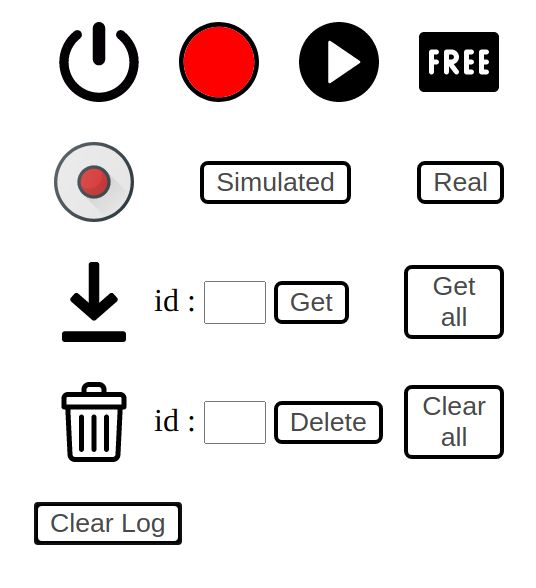
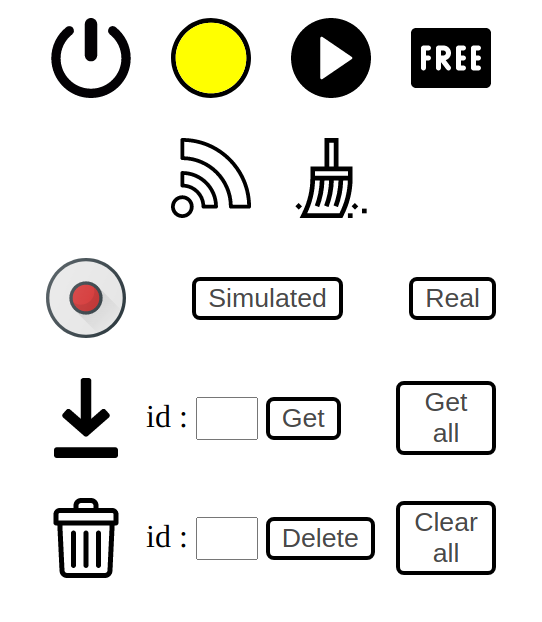
📝 documentation(ronoco-documentation): update documentation according to connect button

diff --git a/ronoco-documentation/src/user-guides/how-to-use-it.md b/ronoco-documentation/src/user-guides/how-to-use-it.md
@@ -15,7 +15,10 @@ Control Interface
 
 <img src="../static/circle.svg" width="5%"></img> Represents the status of the server, when it is empty it means that the client has not yet received any information from the server. It is probably still loading.
 
-<img src="../static/circle_red.svg" width="5%"></img> When it is red it means that at least one request to the server has not been answered and therefore the server is not running or is in error
+<img src="../static/circle_black.svg" width="5%"></img> When it is black (here white) it means that at least one request to the server has not been answered and therefore the server is not running or is in error
+
+
+<img src="../static/circle_red.svg" width="5%"></img> When it is red, it means that it is not possible to reach the commander. Check that MoveIt is running and that the order passed as a parameter is the right one, then click on the connect button
 
 <img src="../static/circle_orange.svg" width="5%"></img> When it is orange it means that ROS is not working as expected. The source of the problem is either the absence of roscore (the rosout/get_loggers service is not available) or the absence of moveit (the move_group/get_loggers service is not available). In this state ronoco is not usable
 
@@ -25,7 +28,11 @@ Control Interface
 
 <img src="../static/play.svg" width="5%"></img> This button asks the server to execute the last behaviour tree deployed from Node-RED
 
-<img src="../static/free.svg" width="5%"></img> Enables the robot to be set to compliant mode. This button can only be used for a robot that has a service to set it to compliant mode (see [add your own robot](../user-guides/own.md) for more details).
+<img src="../static/free.svg" width="5%"></img> Enables the robot to be set to compliant mode. This button can only be used for a robot that has a service to set it to compliant mode
+
+<img src="../static/connect.svg" width="5%"></img> Allows to connect to the commander passed in parameter when the status of ronoco is red
+
+<img src="../static/clear.svg" width="5%"></img> Clear logs in ronoco-ui
 
 <img src="../static/record.svg" width="5%"></img> This group of buttons allows you to record points in the environment. There are two recording modes either via the *simulated* button which records the position of the interactive marker. Or via the *real* button which records the actual position of the robot.
 

diff --git a/ronoco-documentation/src/user-guides/quick-start.md b/ronoco-documentation/src/user-guides/quick-start.md
@@ -5,18 +5,26 @@
 To launch the project, simply run the following command:
 
 ```bash
-roslaunch ronoco ronoco.launch commander:=string compliant_mode:=string
+roslaunch ronoco ronoco.launch commander:=string compliant_mode:=string end_effector:=string
 ```
 
 With as argument :
 - *commander*: the name of the move_group in MoveIt
 - *compliant_mode*: *manual* if the robot can go into compliant mode manually, *None* if the robot cannot go into compliant mode, or *the name of the service* to put it in and out of compliant mode.
+- *end_effector*: the name of the service to manipulate the effector, e.g. "wsg_50_driver/move". It is not necessary to fill in this field
 
 ## Manual start
 
 To use ronoco it is necessary to launch the ROS modules corresponding to your robot and then the different modules of ronoco.
 
 Regarding the launching of ROS modules the procedure is different for each robot, to make ronoco work it is necessary to have a roscore and Moveit running. See the different examples on [Poppy Ergo Jr](poppy.md) or [Universal Robots 3](ur3.md) for more details.
+
+First set parameters in rosparam
+```bash
+rosparam set commander string
+rosparam set compliant_mode string
+rosparam set end_effector string
+```
 
 It is then necessary to launch the three modules.
 ```bash

diff --git a/ronoco-documentation/src/SUMMARY.md b/ronoco-documentation/src/SUMMARY.md
@@ -15,7 +15,6 @@ Ronoco
   - [Poppy ergo jr](user-guides/poppy.md)
   - [Universal Robots 3](user-guides/ur3.md)
   - [Kuka KR6](user-guides/kuka.md)
-  - [Add your own robot](user-guides/own.md)
 
 <!--# Developers guides-->
 
